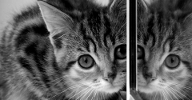
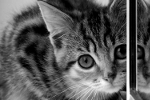
Made news thumbnails the correct size, including the missing image

diff --git a/app/models/news.rb b/app/models/news.rb
@@ -38,8 +38,8 @@ class News < ActiveRecord::Base
   validates :publish_date, :presence => true
   validates :slug, :presence => true, :uniqueness => true
 
-  scope :current, where(["publish_date <= ?", Date.current]).order("publish_date DESC")
+  scope :current, where(["publish_date <= ?", Time.current]).order("publish_date DESC")
 
-  has_attached_file :image, :styles => { :medium => "x300>", :thumb => "150x100" }
+  has_attached_file :image, :styles => { :medium => "x300>", :thumb => "150x100#" }
   attr_accessible :publish_date, :show_public, :slug, :title, :body, :image
 end
